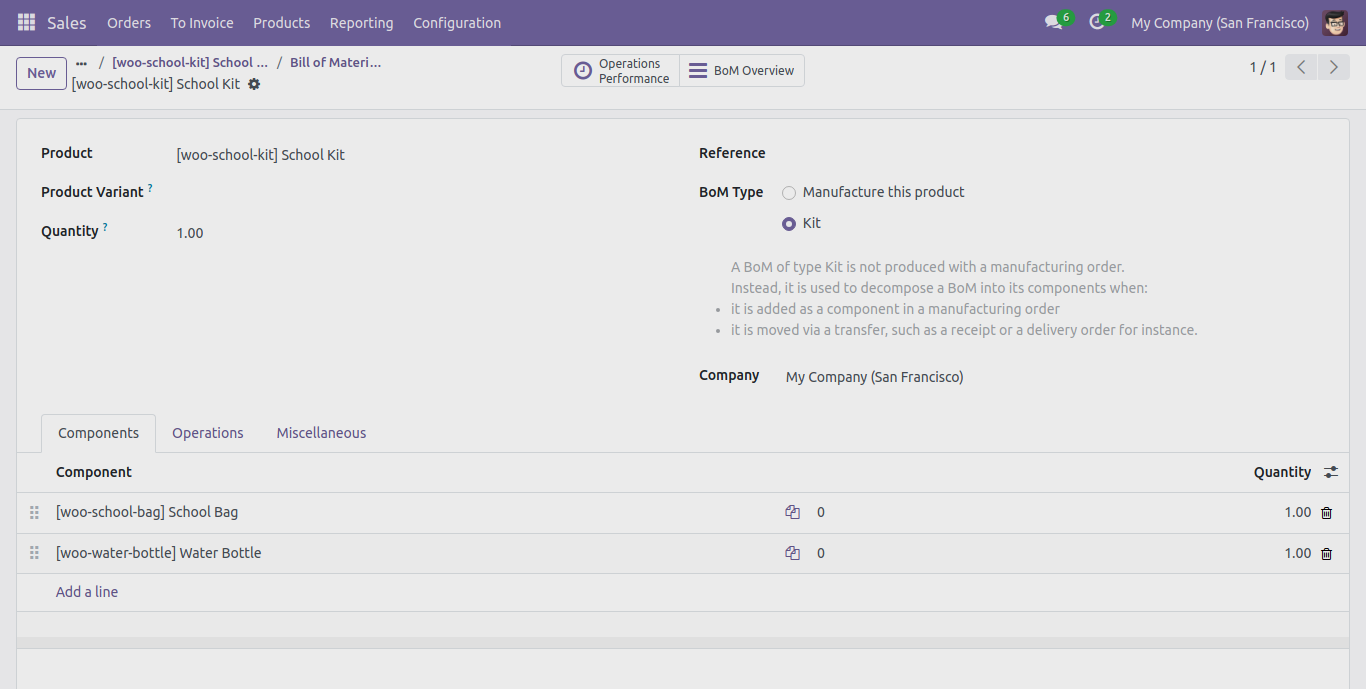
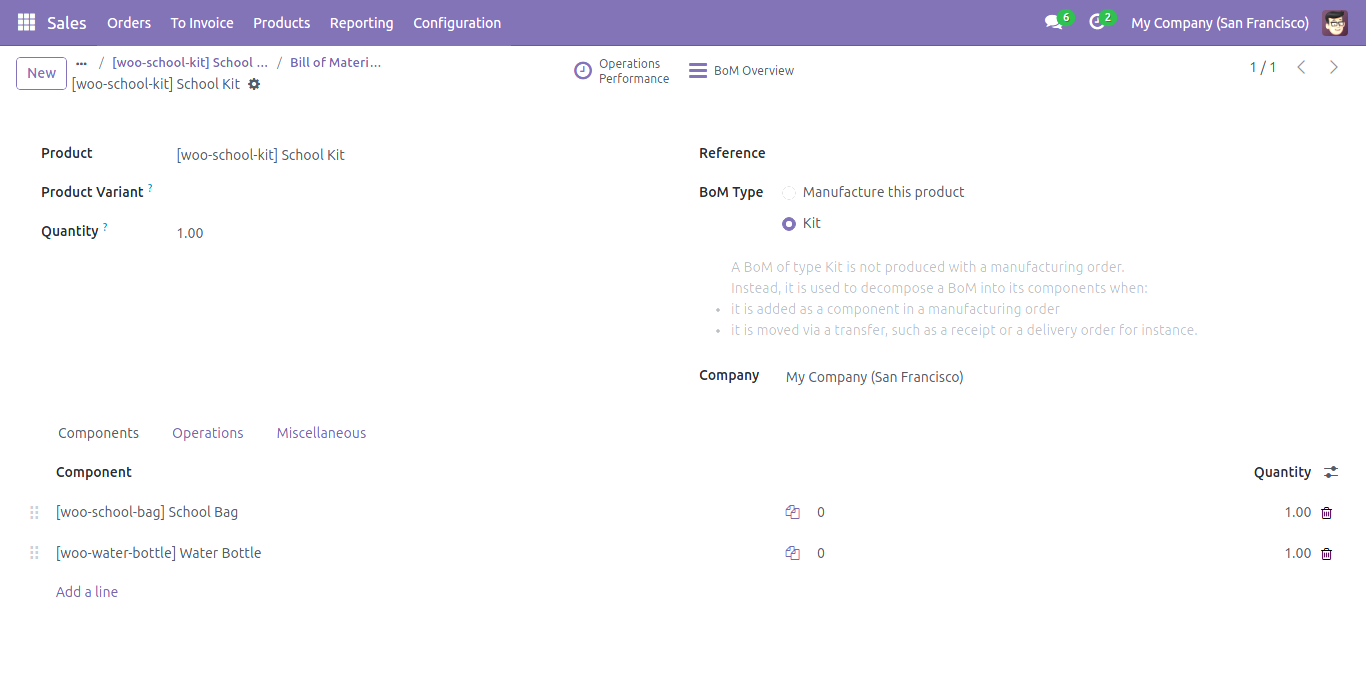
[WIP][T7846]grouped_product_bad_connector_woocommerce:Changes in images and HTML doc

diff --git a/grouped_product_bad_connector_woocommerce/static/description/index.html b/grouped_product_bad_connector_woocommerce/static/description/index.html
@@ -23,68 +23,102 @@
     </div>
 </section>
 
-<section style="font-family:Inter, sans-serif;">
-    <div class="text-center">
+<section class="container mt-5 mb-5">
+    <div class="col-md-8 col-12 py-3 mx-auto">
+        <div class="h3 text-center text-black" style="font-family: Inter, sans-serif; font-size: 22px;">
+            Confused about setting up? We're here to lend a hand! Reach out for <span class="px-2 rounded-pill" style="background-color: #d8df24;">FREE</span> setup and configuration.
+        </div>
+        <div class="p-2 shadow" style="background-color:#d6df00; cursor: pointer;">
+            <h4 class="fs-5 fw-bolder text-center m-auto text-break">
+                <a href="https://www.bizzappdev.com/contactus" target="_blank" class="text-black">
+                 https://www.bizzappdev.com/contactus
+                </a>
+            </h4>
+        </div>
+    </div>
+</section>
+
+<section class="container mt-5" style="font-family: Inter, sans-serif;">
+    <div class="text-center justify-content-center">
         <div>
-            <div class="h4 p-3" style="color: #383835;">
-               The Grouped Product Odoo WooCommerce Connector is a glue module that enables the integration of importing Grouped Type products from WooCommerce to Odoo. It offers various functionalities for efficient WooCommerce product management and synchronization.</div>
+            <div class="col-12 text-justify h3 mt-3 lh-1 text-black" style="font-family: Inter, sans-serif;font-size: 22px;">
+                The Groped Product Odoo WooCommerce Connector is a glue module that enables the integration of importing Grouped Type products from WooCommerce to Odoo. It offers various functionalities for efficient WooCommerce product management and synchronization.</div>
             </div>
         </div>
     </div>
 </section>
 
-<section class="text-center" style="font-family:Inter, sans-serif; padding-top: 20px;">
-    <div>
-        <div>
-            <div style="color: #383835;">
-                <b><h3>Key Features of the Grouped Product Odoo Woocommerce Connector</h3></b>
-                <div style="display: inline-block; text-align: left; padding-top: 20px;">
-                    <ul class="h4" style="color: #383835; display: inline-block; text-align: left;">
-                        <li>Import Grouped Type Products.</li>
-                    </ul>
+<section class="container mt-5" style="font-family:Inter, sans-serif;">
+    <div class="row mt-4 justify-content-center">
+        <div class="col-12 col-md-8">
+            <div class="p-4 rounded-pill text-black" style="background-color: #d8df24;">
+                <h3 class="fw-bolder text-center m-auto text-black" style="font-size:24px;">
+                    Key Features of the Grouped Product Of Woocommerce Connector
+                </h3>
+            </div>
+        </div>
+    </div>
+</section>
+
+<section class="container mb-5">
+    <div class="d-flex flex-wrap justify-content-center pt-5 px-md-5">
+        <div class="col-lg-4 col-md-6 col-12 p-2">
+            <div class="d-flex justify-content-between" style="background-color: #727272;">
+                <div class="col-2 fw-bolder text-center py-5" style="background-color: #5d5d59; color: #d8df24; font-size: 30px;">
+                    1
+                </div>
+                <div class="col-9 text-center m-auto text-white" style="font-size: 20px;">
+                    Import Grouped Type Products.
                 </div>
             </div>
         </div>
     </div>
 </section>
 
-<section class="px-2 my-5" style="font-family:Inter, sans-serif;">
-    <div class="position-relative">
-        <div class="shadow p-2 pb-4 bg-white rounded">
+<section style="font-family: Inter, sans-serif; padding-top: 5px; padding-right: 10px; padding-left:10px;">
+    <div class="position-relative" style="display:inline-grid; width:90% align-items-center">
+        <div class="shadow p-2 mb-5 bg-white rounded">
             <div class="row mt-4 justify-content-center">
                 <div class="col-12 col-md-8">
-                    <div class="p-3 rounded-pill mx-auto" style="background-color: #d6de23; color: #252524; font-size: 18px;">
-                        <h3 class="fw-bolder text-center m-auto" style="color:#252524; font-size:24px;">
+                    <div class="p-3 rounded-pill mx-auto" style="background-color: #d6de23; color: #252524; text-align: center; border-radius: 10px; font-size: 18px; max-height: 350px; max-width: 400px;">
+                        <h3 style="color:#252524; opacity:1; font-size:24px; text-align:center; margin:auto; font-weight:600;">
                             Product Management
                         </h3>
                     </div>
                 </div>
             </div>
-
             <div class="text-center mt-5">
                 <div class="h3 text-black" style="font-family: Inter, sans-serif; font-size: 20px;">
-                    Grouped Product present in Woocommerce.
+                    Grouped Product present in Woocommerce and Imported Grouped product with Bill Of Material.
+                    <br/>
+                    <i class="d-none d-md-block fa fa-arrow-right pt-2 fs-1" style="color: #d6de23;"></i>
                 </div>
                 <div class="pt-1 mx-auto" style="width: 80%;">
-                    <img class="img img-fluid rounded" style="border: 1px solid #000;" src="images/woo_grouped_product.png" />
-                    <br />
+                    <div class="row mb-3">
+                        <div class="col-md-6 col-12 h3 m-auto">
+                            <div>
+                                <img class="img img-fluid rounded" style="border: 1px solid #000;" src="images/woo_grouped_product.png"/>
+                                <br/>
+                            </div>
+                        </div>
+                        <div class="d-block d-md-none col-md-0 col-12 fw-bolder fs-1 m-auto py-md-0 py-3">
+                            <i class="fa fa-arrow-down" style="color: #d6de23;"></i>
+                        </div>
+                        <div class="col-md-6 col-12 h3 m-auto">
+                            <div >
+                                <img class="img img-fluid rounded" style="border: 1px solid #000;" src="images/grouped_product_form_view.png"/>
+                                <br/>
+                            </div>
+                        </div>
+                    </div>
                 </div>
             </div>
             <div class="text-center mt-5">
-                <div class="h3 text-black" style="font-family: Inter,sans-serif;font-size: 20px;">
-                   Imported Grouped product with Bill Of Material.
+                <div class="h3 text-black" style="font-family: Inter, sans-serif; font-size: 20px;">
+                    Imported Bill of Material with BoM Type as a Kit and it's components.
                 </div>
-                <div class="pt-1 mx-auto mb-3" style="width: 80%;">
-                    <img class="img img-fluid rounded" style="border: 1px solid #000;" src="images/grouped_product_form_view.png" />
-                    <br />
-                </div>
-            </div>
-            <div class="text-center mt-5">
-                <div class="h3 text-black" style="font-family: Inter,sans-serif;font-size: 20px;">
-                   Imported Bill of Material with BoM Type as a Kit and it's components.
-                </div>
-                <div class="pt-1 mx-auto mb-3" style="width: 80%;">
-                    <img class="img img-fluid rounded" style="border: 1px solid #000;" src="images/product_bom_view.png" />
+                <div style="padding-top: -5px; width: 80%; margin: 0 auto;">
+                    <img class="img img-fluid rounded" style="border: 1px solid #000;" src="images/product_bom_view.png"/>
                     <br />
                 </div>
             </div>
@@ -92,17 +126,17 @@
     </div>
 </section>
 
-<section style="padding-top: 40px;">
+<section style="padding-top: 20px;">
     <div class="text-center">
         <div style="color: #383835;">
-            <b><h3>Bug Tracker</h3></b>
+            <b><h1>Bug Tracker</h1></b>
         </div>
     </div>
 </section>
 
-<section style="font-family:Inter, sans-serif;padding-bottom: 10px;">
+<section style="font-family: Inter, sans-serif;padding-bottom: 10px;">
     <div>
-        <div class="h4 text-center">
+        <div class="h3 text-center">
             <div style="color: #5d5d59;">
                 <b>Bugs are tracked on <u><a href="https://github.com/BizzAppDev-Systems/connector-woocommerce/issues" target="_blank">GitHub Issues</a></u>. In case of trouble, please check there if your issue has already been reported. If you spotted it first, help us to smash it by providing a detailed and welcomed feedback in below provided link.</b>
             </div>
@@ -110,7 +144,7 @@
     </div>
 </section>
 
-<section style="font-family:Inter, sans-serif; padding-bottom: 20px;">
+<section style="font-family: Inter, sans-serif; padding-bottom: 20px;">
     <div class="container">
         <div class="row justify-content-center text-center">
             <div class="col-md-8 my-3">
